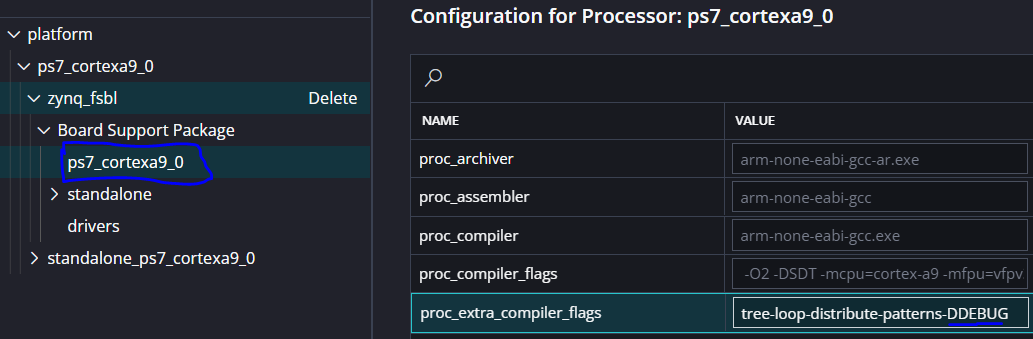
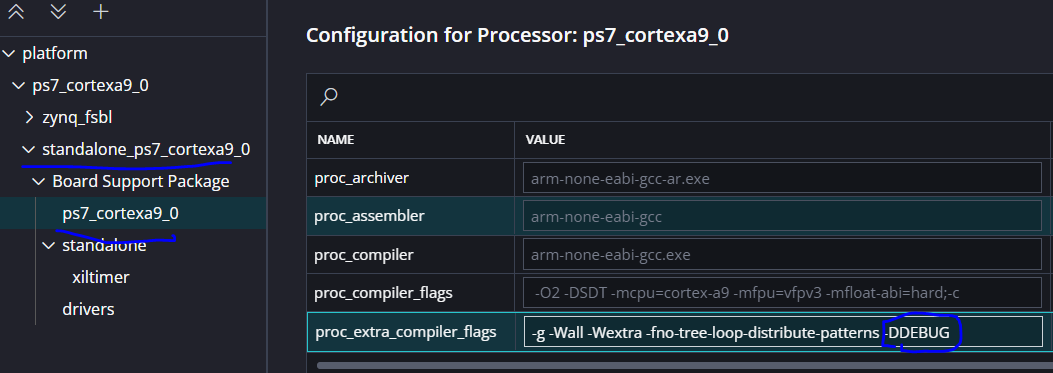
changing how to debug based off issues

diff --git a/_posts/2024-12-13-How-to-print-Vitis-Debug-messages.md b/_posts/2024-12-13-How-to-print-Vitis-Debug-messages.md
@@ -16,6 +16,7 @@ print to your active debug programming port.
 add -DDEBUG to the "proc_extra_compiler_flags"
 ![where_to_add_DDEBUG_flag](/Engineering-Blog/assets/posts/2024-12-13-How-to-print-Vitis-Debug-messages/where_to_add_DDEBUG_flag.PNG)
 
+Make sure to add it in the Standalone BSP, not the FSBL BSP.
 
 ## What it's doing
 Appends the flag "DDEBUG" to the compiler which tells it to compile those relevant commands, like xdbg_printf, into assembly and then later binary machine code. 

diff --git a/_posts/2024-12-12-Embedded-Xilinx-Processor-Development-thoughts-and-confusions.md b/_posts/2024-12-12-Embedded-Xilinx-Processor-Development-thoughts-and-confusions.md
@@ -3,7 +3,7 @@ layout: post
 title:  "Embedded Xilinx Processor Development: Thoughts and Confusions"
 date:   2024-12-12T11:00:00-05:00
 author: Victoria Polda
-categories: Software
+categories: Xilinx
 ---
 
 I have been working with AXI Video Direct Memory Access (VDMA or video DMA) for my RTL Edge detection and live video processing project. The problem I am running into, is understanding the C code and what is happening. 
